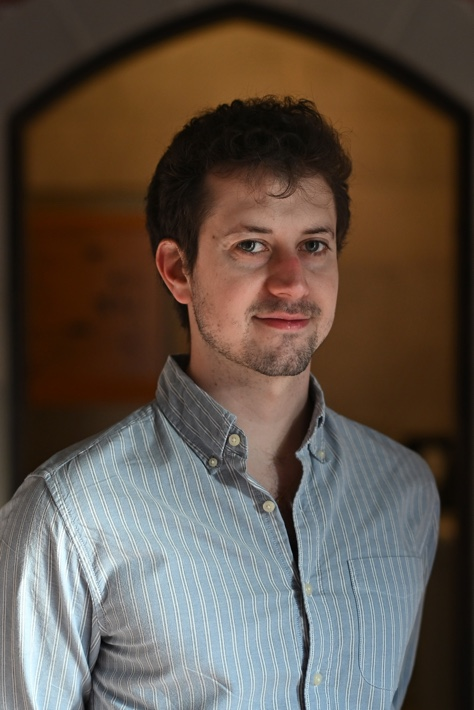
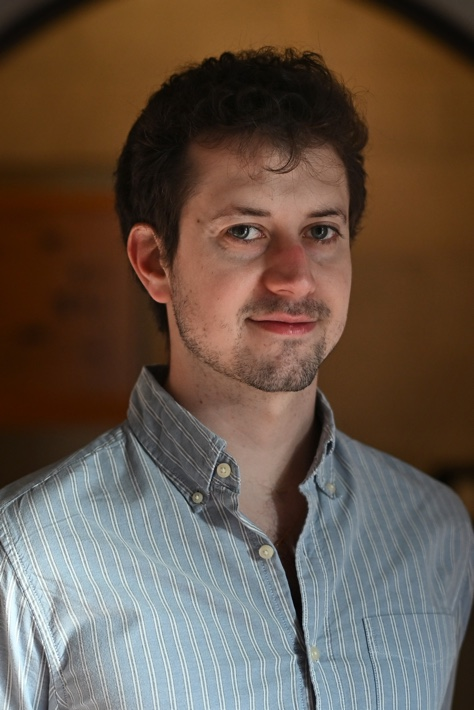
Home page: cropped portrait photo

diff --git a/index.html b/index.html
@@ -44,7 +44,7 @@
         </section>
       </div>
       <figure class="card">
-        <img src="images/pedro_2.jpg?v=7" width="474" height="710" alt="Portrait of Pedro Adami Oliboni">
+        <img src="images/pedro_2.jpg?v=8" width="474" height="710" alt="Portrait of Pedro Adami Oliboni">
         <figcaption>
           PhD Student in Economics<br>
           The University of Chicago<br>
